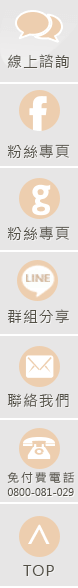
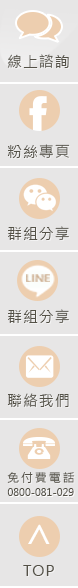
增加 Line+WeChat 的QRCode #20150622

Changed region(s): [[0.3077, 0.3061, 0.7179, 0.4286], [0.1026, 0.3673, 0.2821, 0.4286], [0.7179, 0.3673, 0.8718, 0.4286]]

diff --git a/index.html b/index.html
@@ -31,7 +31,7 @@
                  <ul class="box_link">
                     <li class="iconlink-04"><a href="mailto:inbeautytw@gmail.com" title="聯絡我們">聯絡我們</a></li>
                     <li class="iconlink-03"><a href="#box_linefriend" title="加入美醫的Line帳號" class="fancybox">Line官方帳號</a></li>
-                    <li class="iconlink-02"><a href="#" title="美醫的G+粉絲專頁" rel="external">Google+專頁</a></li>
+                    <li class="iconlink-02"><a href="#box_wechatfriend" title="加入美醫的WeChat帳號" class="fancybox">WeChat官方帳號</a></li>
                     <li class="iconlink-01"><a href="https://www.facebook.com/inbeautytw" title="美醫的FB粉絲專頁" rel="external">FB粉絲團</a></li>                    
                  </ul>
                  <p class="phone_number"><strong>預約專線 02-2331-0929</strong></p>
@@ -181,7 +181,7 @@
               <ul class="box_link">
                   <li class="iconlink-04"><a href="mailto:inbeautytw@gmail.com" title="聯絡我們">聯絡我們</a></li>
                   <li class="iconlink-03"><a href="#box_linefriend" title="加入美醫的Line帳號" class="fancybox">Line官方帳號</a></li>
-                  <li class="iconlink-02"><a href="#" title="美醫的G+粉絲專頁" rel="external">Google+專頁</a></li>
+                  <li class="iconlink-02"><a href="#box_wechatfriend" title="加入美醫的WeChat帳號" class="fancybox">WeChat官方帳號</a></li>
                   <li class="iconlink-01"><a href="#" title="美醫的FB粉絲專頁" rel="external">FB粉絲團</a></li>                    
               </ul>
               
@@ -289,8 +289,8 @@
              <ul>
                 <li class="btn_link-01"><a href="#box_message" class="fancybox" >線上諮詢</a></li>
                 <li class="btn_link-02"><a href="https://www.facebook.com/inbeautytw" title="美醫的FB粉絲專頁" rel="external">FB粉絲團</a></li>
-                <li class="btn_link-03"><a href="#" title="美醫的G+粉絲專頁" rel="external">Google+專頁</a></li>
                 <li class="btn_link-04"><a href="#box_linefriend" title="加入美醫的Line帳號" class="fancybox">Line官方帳號</a></li>
+                <li class="btn_link-03"><a href="#box_wechatfriend" title="加入美醫的WeChat帳號" class="fancybox">WeChat官方帳號</a></li>
                 <li class="btn_link-05"><a href="mailto:inbeautytw@gmail.com" title="聯絡我們">聯絡我們</a></li>
                 <li class="btn_link-06"><a href="#">免付費電話：0800-000-000</a></li>
                 <li class="btn_link-07"><a href="#box_top">返回頂端</a></li>
@@ -349,7 +349,12 @@
         <div id="box_linefriend">
            <h3>一起Line吧！</h3>
            <p>歡迎加入美醫的Line群組，隨時隨地接收美醫的最新動態。</p>
-           <img src="images/my_qrcode.jpg" alt="美醫Line官方帳號">
+           <img src="images/my_qrcode-line.jpg" alt="美醫Line官方帳號">
+        </div>
+        <div id="box_wechatfriend">
+           <h3>一起WeChat吧！</h3>
+           <p>歡迎加入美醫的WeChat群組，隨時隨地接收美醫的最新動態。</p>
+           <img src="images/my_qrcode-wechat.jpg" alt="美醫Line官方帳號">
         </div>
         
      </div><!--//end #main_content-->

diff --git a/css/xuemain_201502.css b/css/xuemain_201502.css
@@ -77,7 +77,7 @@ h1 a{
 	float:right;
 	font-size:0.938em;
 	line-height:28px}
-.iconlink-01 a, .iconlink-03 a, .iconlink-04 a{
+.iconlink-01 a, .iconlink-02 a, .iconlink-03 a, .iconlink-04 a{
 	display:block;
 	float:left;
 	width:30px;
@@ -86,11 +86,11 @@ h1 a{
 	line-height:0;
 	text-indent:-9999px;
 	margin: 0 3px}
-.iconlink-02 a{ display:none}	
+/*.iconlink-02 a{ display:none}	*/
 .iconlink-01 a{ background:url(../images/icon_link.png) no-repeat}
 .iconlink-01 a:hover{ background:url(../images/icon_link.png) -30px 0 no-repeat}
-/*.iconlink-02 a{ background:url(../images/icon_link.png) 0 -30px no-repeat}
-.iconlink-02 a:hover{ background:url(../images/icon_link.png) -30px -30px no-repeat}*/
+.iconlink-02 a{ background:url(../images/icon_link.png) 0 -30px no-repeat}
+.iconlink-02 a:hover{ background:url(../images/icon_link.png) -30px -30px no-repeat}
 .iconlink-03 a{ background:url(../images/icon_link.png) 0 -60px no-repeat}
 .iconlink-03 a:hover{ background:url(../images/icon_link.png) -30px -60px no-repeat}
 .iconlink-04 a{ background:url(../images/icon_link.png) 0 -90px no-repeat}	
@@ -325,7 +325,8 @@ footer p, footer li{
 	z-index:99;
 	width:78px}	
 .btn_link-01 a, 
-.btn_link-02 a,  
+.btn_link-02 a,
+.btn_link-03 a,  
 .btn_link-04 a, 
 .btn_link-05 a, 
 .btn_link-06 a,
@@ -335,10 +336,10 @@ footer p, footer li{
 	height:84px;
 	background:url(../images/btn_quicklink.png) no-repeat;
 	text-indent:-9999px}
-.btn_link-03 a{ display:none}	
+/*.btn_link-03 a{ display:none}*/
 .btn_link-01 a{ background-position:0 0}
 .btn_link-02 a{ background-position:0 -84px} 
-/*.btn_link-03 a{ background-position:0 -168px}*/
+.btn_link-03 a{ background-position:0 -168px}
 .btn_link-04 a{ background-position:0 -252px}
 .btn_link-05 a{ background-position:0 -336px}
 .btn_link-06 a{ background-position:0 -420px}
@@ -361,16 +362,16 @@ footer p, footer li{
 	min-width:1240px;
 	height:450px;
 	margin:0 auto}
-#box_linefriend{
+#box_linefriend, #box_wechatfriend{
 	display:none;
 	width:300px;
 	height:400px;
 	text-align:center}
-#box_linefriend h3{
+#box_linefriend h3, #box_wechatfriend h3{
 	font-size:1.25em;
 	line-height:35px;
 	color:#307A00}
-#box_linefriend p{
+#box_linefriend p, #box_wechatfriend p{
 	font-size:0.938em;
 	line-height:25px;
 	margin-bottom:15px}
